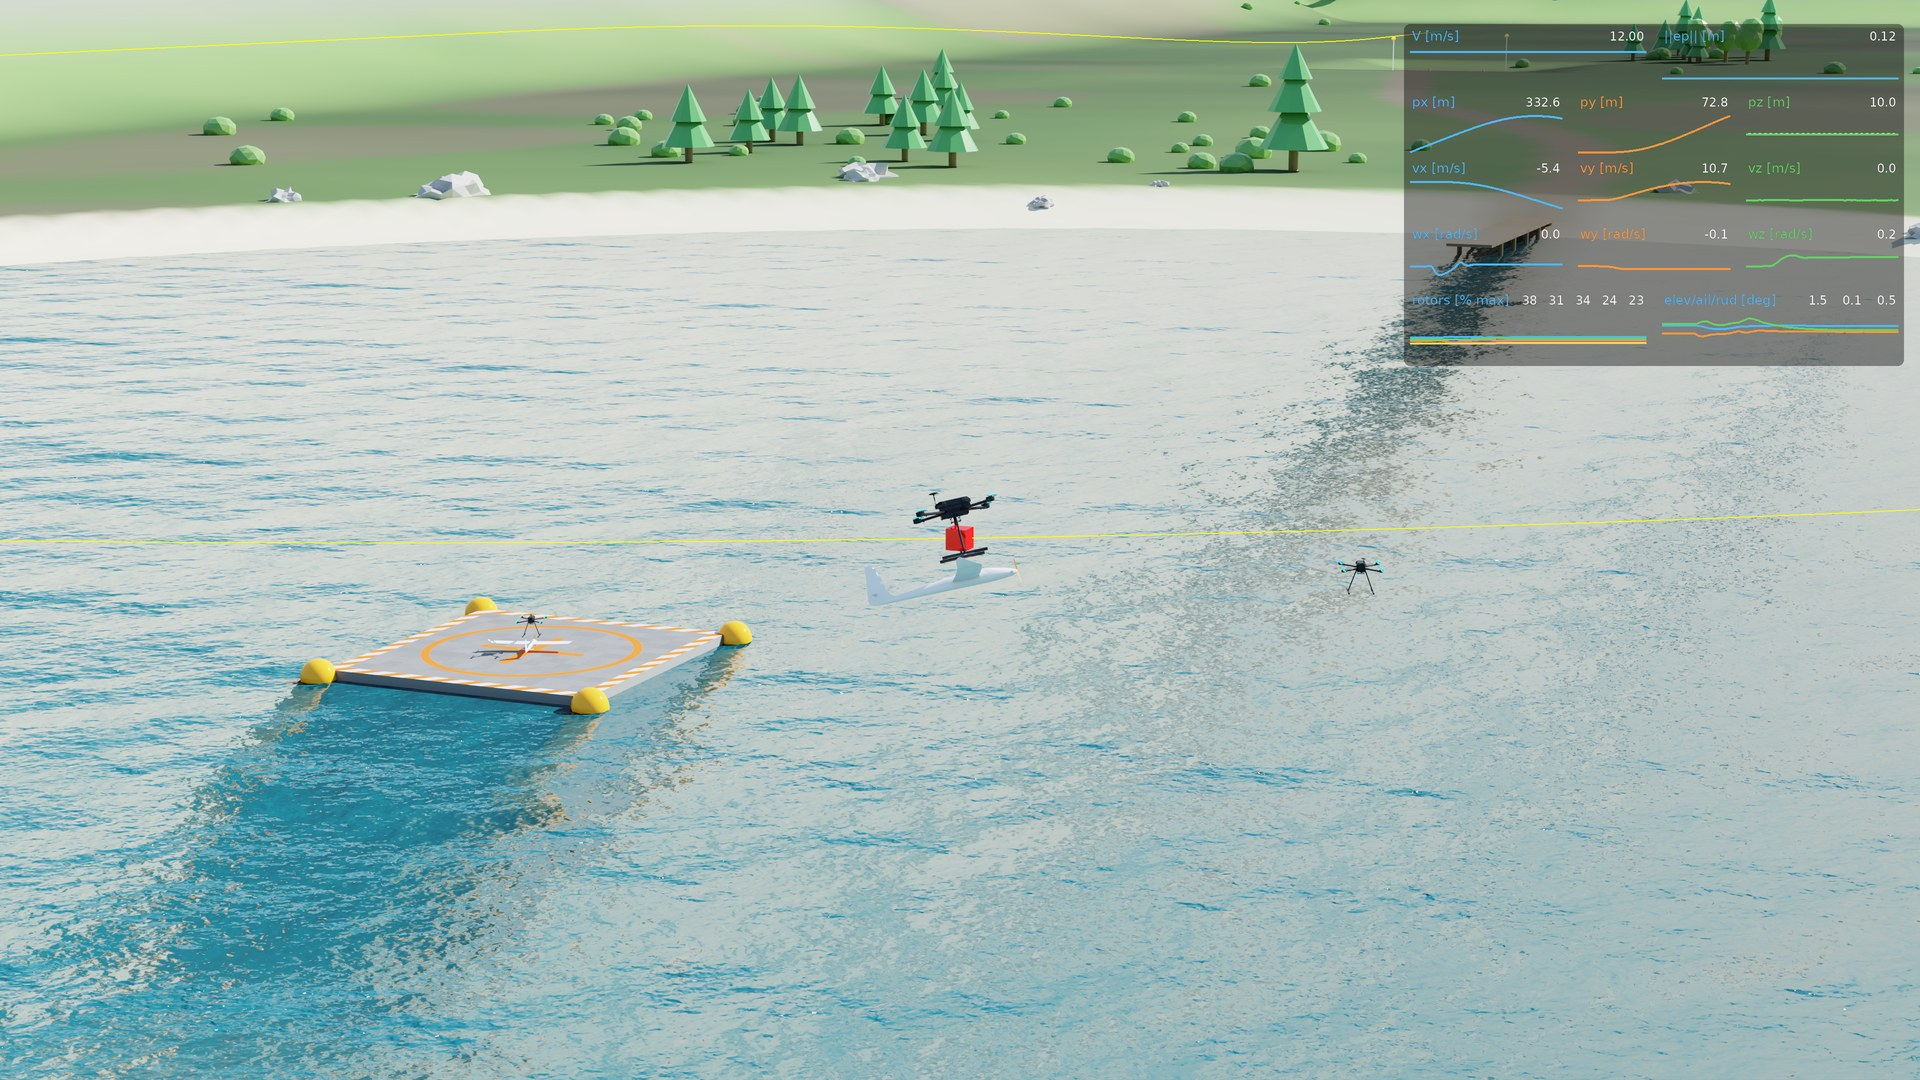
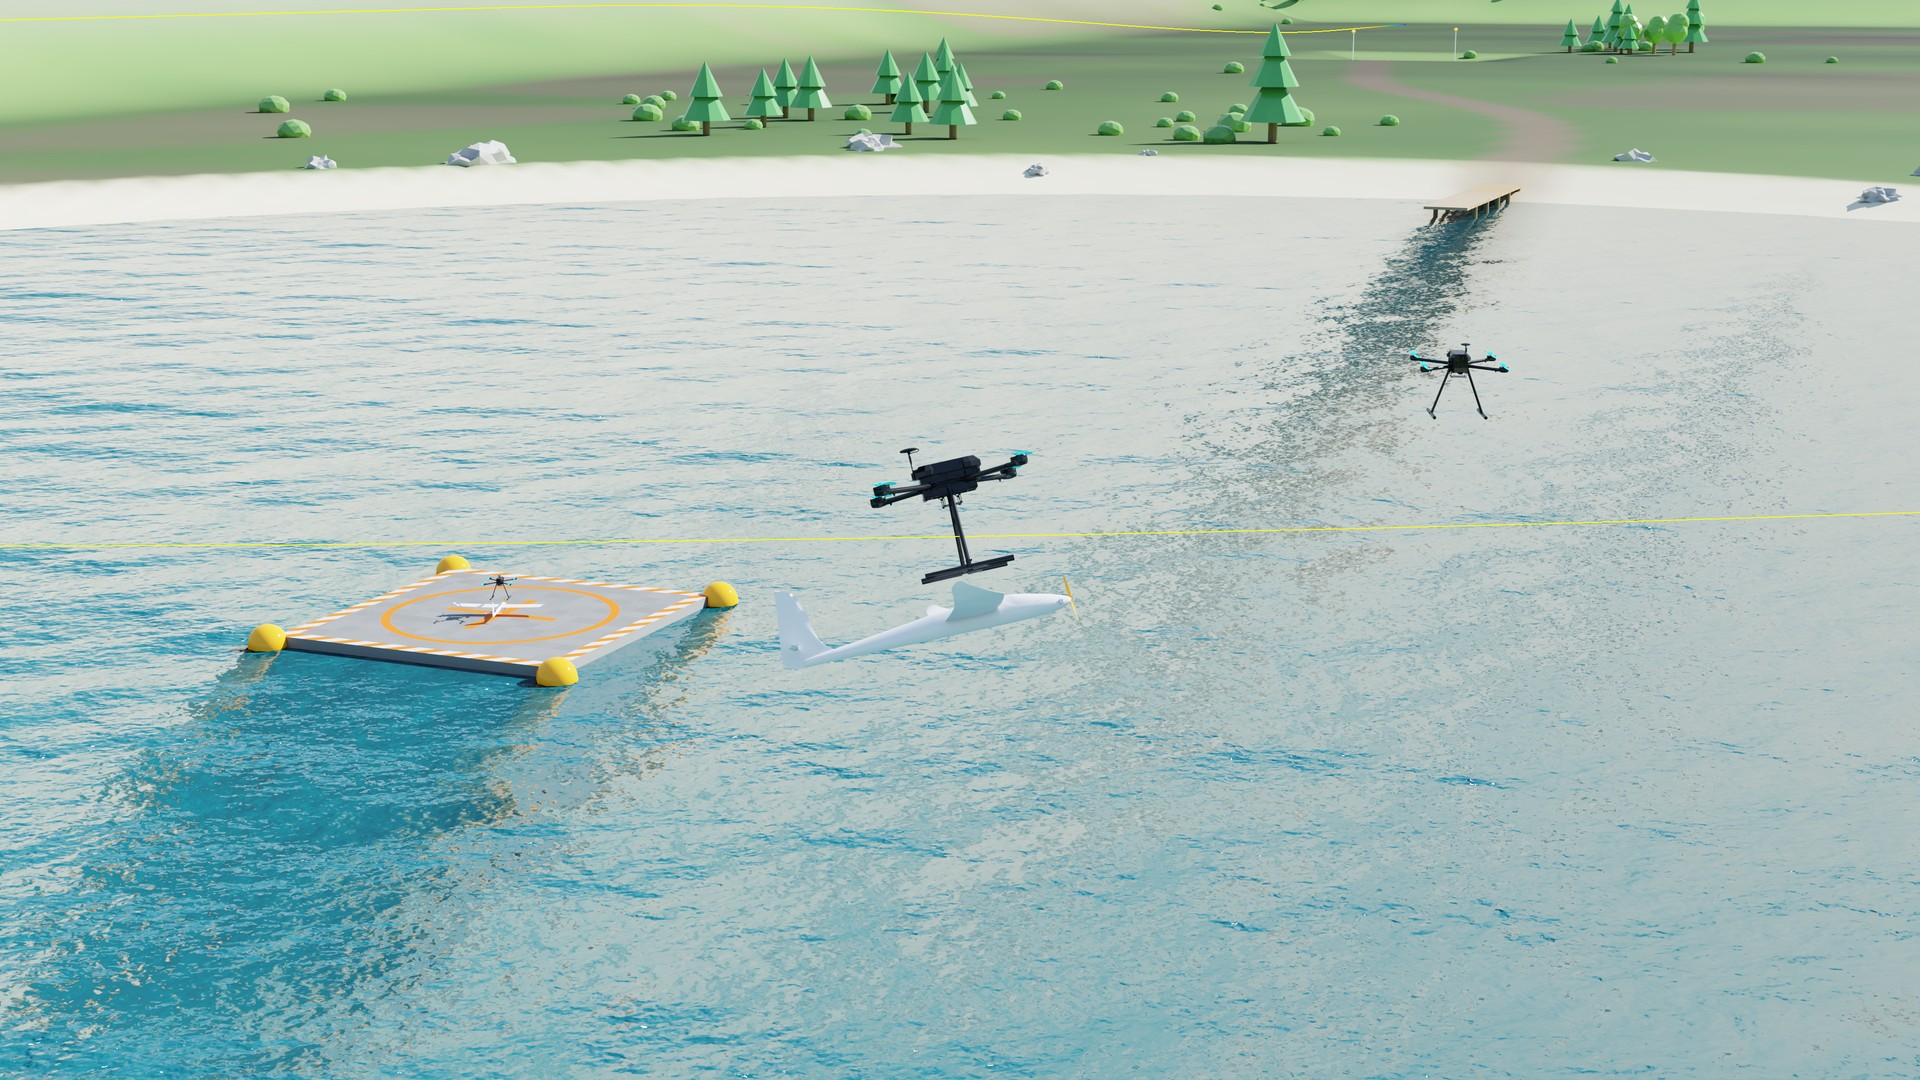
docs: update REPRODUCE.md and the README image
- REPRODUCE.md: classical controller, extended thrust-and-moment study, seeds 1-3 and variant missions of the
  Shuttle-Glider, PX4 airframes and flights, updated checks
- README: image of the Shuttle-Glider over the Lake World, PX4 estimator options

diff --git a/REPRODUCE.md b/REPRODUCE.md
@@ -40,15 +40,20 @@ deterministic. The evaluations use a fixed seed (1000), so all policies of a sec
 ## 2. Shuttle - thrust and moment control
 
 ```bash
-examples/rl/scripts/shuttle/thrust_moment/run_isaac_lab_study.sh            # k_T = 1.9, 8 configurations x 10 seeds
-KT=3.9 examples/rl/scripts/shuttle/thrust_moment/run_isaac_lab_study.sh     # k_T = 3.9 (sensitivity test)
+T=examples/rl/scripts/shuttle/thrust_moment/run_isaac_lab_study.sh
+$T                                                                           # k_T = 1.9, 8 configurations x 10 seeds
+EXPERIMENTS="ms025_den08 ms050_den08 ms100_den08 ms025_den15 ms050_den15 ms100_den15 \
+  ms025_den08_yaw011 ms025_den08_yaw101 ms050_den08_yaw011 ms050_den08_yaw101" $T   # extended moment-scale sweep
+KT=3.9 $T                                                                    # k_T = 3.9 (sensitivity test)
+KT=3.9 EXPERIMENTS="ms025_den08_yaw101 ms006_den08_hc ms012_den08_hc ms012_den15_hc ms012_den08_yaw101_hc \
+  ms025_den08_yaw101_hc" $T                                                  # k_T = 3.9, hover command at a0 = 0
 python3 results/shuttle/isaac_lab_study/export_results.py                   # -> results/shuttle/isaac_lab_study/data
 # MATLAB, in results/shuttle/isaac_lab_study:  plot_results
 ```
 
 Each run trains PPO2 for 200 iterations (4096 vehicles, about 80 s on one GPU) and evaluates the final checkpoint on
-200 goals. Check: with c_M = 0.12, c_D = 0.8 and w_psi = 1.01 the final error is about 0.018 m, the RMSE 0.449 m and
-t20 1.37 s (mean over ten seeds).
+200 goals (320 runs in total, two of which fail with c_M = 0.01). Check: with the reference configuration c_M = 0.25,
+c_D = 0.8 and w_psi = 1.01 the final error is about 0.020 m, the RMSE 0.417 m and t20 1.17 s (mean over ten seeds).
 
 ## 3. Shuttle - acceleration control
 
@@ -65,6 +70,18 @@ The study script also writes `outer_loop_by_run.csv` (`summarize_outer_loop_eval
 the quadratic reward terminates every episode (survival 0), the constant, death-penalty and exponential rewards
 survive every episode with a discounted return about 10 % below the LQR (G_LQR = -24.57).
 
+Classical cascaded controller (position outer loop with the LQR gains K_p = 3.15, K_v = 2.37 and geometric attitude
+inner loop) on the Shuttle in Pegasus, for the goal of the example episodes (1.59 m away):
+
+```bash
+results/shuttle/classical_control/run.sh                                   # -> results/shuttle/classical_control/run
+python3 results/shuttle/classical_control/export_results.py                # -> data/episode.csv, data/metrics.json
+# MATLAB, in results/shuttle/classical_control:  plot_results
+```
+
+Check: 2 % settling after 2.8 s in x and y and 3.2 s in z, overshoot 7.4 % (x, y) and 4.2 % (z), final error about
+1 mm after 5 s, thrust between 33.7 and 39.9 N and rotor speeds below 870 rad/s.
+
 ## 4. Shuttle - direct rotor velocity control
 
 ```bash
@@ -79,7 +96,11 @@ $S/run_direct_rotor_ablation.sh                       # reward and observation v
 $S/run_direct_rotor_ablation_extra.sh                 # control runs of the R5 and R6 variants with seeds 1 and 2
 $S/eval_direct_rotor_yaw.sh                           # heading of the ablation policies
 $S/eval_direct_rotor_lemniscate.sh                    # lemniscate, peak acceleration 0.5-10 m/s^2
-$S/eval_force_moment_lemniscate.sh                    # the thrust-and-moment policies on the lemniscate
+EXPERIMENT=ms025_den08_yaw101 OUT=examples/rl/tasks/shuttle/direct_rotor/ablation/raptor_tracking/logs/eval_lemniscate_fm_ms025_den08_yaw101 \
+  $S/eval_force_moment_lemniscate.sh                  # the thrust-and-moment policies on the lemniscate, k_T = 1.9
+EXPERIMENT=ms025_den08_yaw101_hc STUDY=study_10seeds_kt3p9 ZERO_VEL_SEEDS= \
+  OUT=examples/rl/tasks/shuttle/direct_rotor/ablation/raptor_tracking/logs/eval_lemniscate_fm_ms025_den08_yaw101_hc_kt3p9 \
+  $S/eval_force_moment_lemniscate.sh                  # ... k_T = 3.9 with the hover command at a0 = 0
 results/shuttle/rotor_velocities/make_results.sh      # checkpoint evaluations, export, figures (matplotlib)
 ```
 
@@ -98,13 +119,20 @@ on the lemniscate at 2 m/s^2 the reference acceleration in the observation lower
 
 ## 5. Shuttle-Glider
 
-Policies: `base` (B), `wls_ema` (F, filtered differential) and `wls_ema_m02` (M, retained), seed 3, 5000 iterations.
+Policies: `base` (B), `wls_ema` (F, filtered differential) and `wls_ema_m02` (M, retained), seed 3 (seeds 1 and 2 for
+the dispersion between seeds), 5000 iterations.
 
 ```bash
 G=examples/rl/scripts/shuttle_glider
 VARIANTS="base wls_ema wls_ema_m02" $G/run_tracking.sh                     # training (about 35 min per policy)
+SEEDS="1 2" VARIANTS="base wls_ema wls_ema_m02" $G/run_tracking.sh        # seeds 1 and 2 of the three policies
+SEEDS="1 2 3" VARIANTS="base wls_ema wls_ema_m02" REGIMES="hover mixed accel_v5 accel_v9 accel_v13 decel_v5_0 \
+  decel_v9_0 decel_v13_9 cruise_v3 cruise_v7 cruise_v11 cruise_v14 turn_v8_r25 turn_v10_r40 turn_v12_r30 turn_v14_r40 \
+  climb_v0_z1 climb_v10_z1 climb_v10_z-1 helix_v12_r30_z1" $G/eval_tracking.sh   # 19 regimes and the helix, seeds 1-3
+                                                                           # -> logs/variants/regimes_summary.csv
 # reward variants of the variant table (one seed each):
-VARIANTS="power01 power02 dact025 rate0 surfq conflict surfq_conflict conflict_alloc alloc wls wls_q wls_ema_m" $G/run_tracking.sh
+VARIANTS="power01 power02 dact025 rate0 surfq conflict surfq_conflict conflict_alloc alloc wls wls_q wls_ema_m nolarge" \
+  $G/run_tracking.sh
 
 # regimes of the regime table and of the steady-flight figure (200 vehicles, t >= 3 s)
 OUT_ROOT=examples/rl/tasks/shuttle_glider/tracking/logs/regime_figures VARIANTS="base wls_ema wls_ema_m02" \
@@ -114,30 +142,32 @@ REGIMES="hover mixed accel_v5 accel_v9 accel_v13 decel_v5_0 decel_v9_0 decel_v13
   $G/eval_tracking.sh
 results/shuttle_glider/tracking_regimes/eval_regimes.sh                    # deceleration and helix episodes
 
-# missions at 12 and 14 m/s (true state)
-TRAIN_VARIANTS=" " EVAL_VARIANTS=" " MISSION_VARIANTS="base wls_ema wls_ema_m02" $G/run_round.sh
+# missions at 12 and 14 m/s (true state) of every policy of the variant table -> logs/variants/missions_summary.csv
+TRAIN_VARIANTS=" " EVAL_VARIANTS=" " MISSION_VARIANTS="base wls_ema wls_ema_m02 power01 power02 dact025 rate0 surfq \
+  conflict surfq_conflict conflict_alloc alloc wls wls_q wls_ema_m nolarge" $G/run_round.sh
 
 # surface ablation of the base policy (surface commands replaced by the trim or by zero)
 $G/run_surface_ablation.sh
 ```
 
-Mission with the PX4 state estimate. Install the airframes first: copy
-`examples/rl/px4_vehicles/10050_none_shuttle` and `10051_none_shuttle_glider` to
+Mission with the PX4 state estimate. Install the airframes first: copy `10050_none_shuttle`,
+`10051_none_shuttle_glider`, `10053_none_shuttle_glider_baro`, `10055_none_shuttle_glider_inair` and
+`10058_none_shuttle_glider_baro_inair` from `examples/rl/px4_vehicles` to
 `PX4-Autopilot/ROMFS/px4fmu_common/init.d-posix/airframes/`, add them to the `CMakeLists.txt` of that folder and run
-`make px4_sitl_default` in PX4-Autopilot. Then, for `CONFIG` in `shuttle_glider_true_state`,
-`px4_shuttle_glider_estimator` and `px4_shuttle_glider_estimator_gps_nodrift`, with `CASE` = `mission`, `mission_px4`
-and `mission_px4_gps_nodrift`:
+`make px4_sitl_default` in PX4-Autopilot. Then fly the mission at 12 m/s with the true state, with the PX4 estimate
+from gazebo-classic sensors (GPS height reference) and from a standard GNSS receiver without RTK (barometric height
+reference); in both PX4 flights the backend arms PX4 after the EKF warmup, so that EKF2 fuses airspeed and sideslip:
 
 ```bash
-"$ISAACSIM_PYTHON" examples/rl/play_multi.py --config examples/rl/configs/$CONFIG.json \
-  --trajectory mission --traj_speed 12 --traj_radius 50 --traj_a_max 3 --mission_decel_amax 0.7 \
-  --episode_duration 101 --traj_z 10 --spawn-altitude 10 --mission_climb 10 --mission_climb_rate 1.0 \
-  --n_envs 1 --headless --record --failure-distance 1000 \
-  --record_dir examples/rl/tasks/shuttle_glider/tracking/logs/variants/wls_ema_m02/$CASE/mission_v12alt_s03
+examples/rl/scripts/shuttle_glider/run_px4_mission.sh
+python3 results/shuttle_glider/tracking_regimes/alpha_beta_error.py \
+  examples/rl/tasks/shuttle_glider/tracking/logs/variants/wls_ema_m02/mission_px4_height_ref/*/mission_v12alt_s03
 ```
 
-(For the appendix flights of the base policy, use copies of the three manifests with `wls_ema_m02` replaced by
-`base` and record to `variants/base/...`.)
+(The appendix flights of the base policy use the earlier configurations `px4_shuttle_glider_estimator` and
+`px4_shuttle_glider_estimator_gps_nodrift`, PX4 disarmed, with the `play_multi.py` arguments of `run_px4_mission.sh`,
+a copy of `shuttle_glider_true_state.json` with `wls_ema_m02` replaced by `base`, and `--record_dir`
+`examples/rl/tasks/shuttle_glider/tracking/logs/variants/base/{mission,mission_px4,mission_px4_gps_nodrift}/mission_v12alt_s03`.)
 
 Tables, figures and analyses:
 
@@ -151,11 +181,14 @@ python3 results/shuttle_glider/tracking_regimes/export_results.py          # -> 
 
 The variant table (missions and Delta Omega) is in `examples/rl/tasks/shuttle_glider/tracking/logs/variants/
 missions_summary.csv`, written by `run_round.sh`. Check: the three policies survive every regime with an RMSE below
-2.4 cm; the minimum-power trim falls from 663.6 W in hover to 45.8 W at 14 m/s; with the PX4 estimate the retained
-policy completes the mission, tracking the estimated position within about 12 cm.
+2.4 cm with seed 3, and the retained policy stays within 7.9 cm over seeds 1-3; the minimum-power trim falls from
+663.6 W in hover to 45.8 W at 14 m/s; with the PX4 estimate the retained policy completes the mission, tracking the
+estimated position within 3.6 cm (gazebo-classic sensors) and 4.8 cm (GNSS), with a true-position error of 0.44 and
+0.86 m.
 
 Mission video (Lake World): run the `video_mission_v12_px4` flight of
-`examples/rl/scripts/shuttle_glider/manifests/tracking_wls_ema_m02_px4_video.json`, then
+`examples/rl/scripts/shuttle_glider/manifests/tracking_wls_ema_m02_px4_video_gnss.json` (the three state sources of the
+mission above at once; `tracking_wls_ema_m02_px4_video.json` holds the earlier PX4 configurations), then
 `python3 examples/rl/scripts/shuttle_glider/video/compose_mission_video.py <record_dir>`.
 
 ## 6. EasyGlider

diff --git a/README.md b/README.md
@@ -27,8 +27,9 @@ trained weights and raw logs are not.
   aerodynamic model with control surfaces and a puller propeller, and the Shuttle-Glider assembly; binary USD assets
   and a Lake World environment.
 - **PX4 state estimation**: a backend that replaces the true state given to a trained policy by the EKF2 estimate of
-  PX4 SITL running in lockstep with simulated IMU, GPS, barometer, magnetometer and airspeed sensors, with airframes
-  for the Shuttle and the Shuttle-Glider.
+  PX4 SITL running in lockstep with simulated IMU, GPS, barometer, magnetometer and airspeed sensors (optionally with
+  the statistics and GPS delay of the PX4 gazebo-classic plugins, and with PX4 armed after the EKF warmup so that EKF2
+  fuses airspeed and sideslip), with airframes for the Shuttle and the Shuttle-Glider.
 - **Tasks, scripts and results**: the RL tasks (`examples/rl/tasks`), the training and evaluation scripts
   (`examples/rl/scripts`) and the scripts that export the tables and draw the figures (`results/`).
 - Fixes to the original backends and sensors (quaternion convention, GPS and barometer noise, sensor timing); see the
